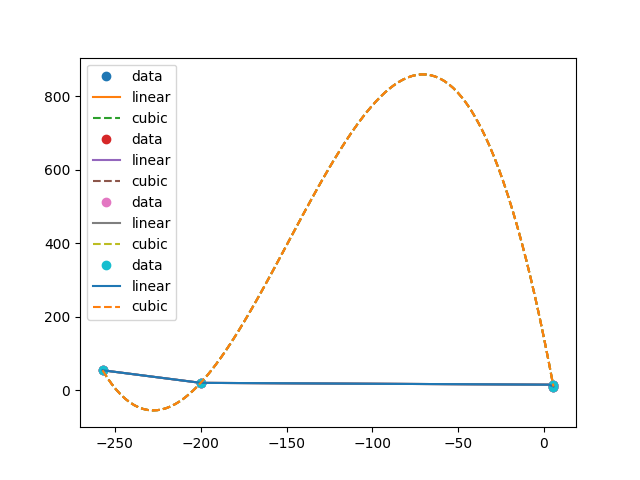
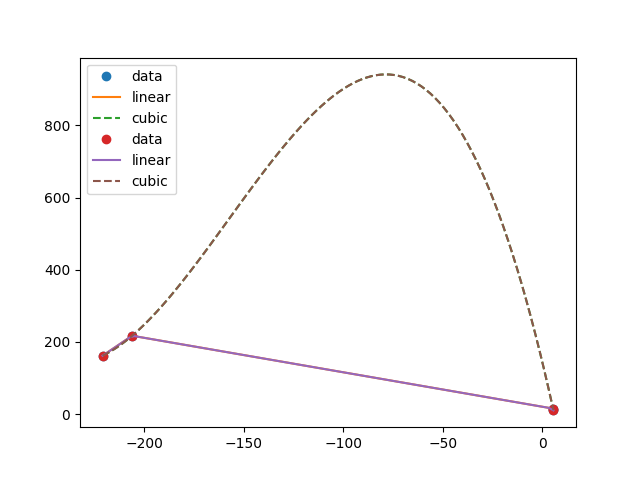
modularizing code

diff --git a/blackbox_svl/SVLSimulation.py b/blackbox_svl/SVLSimulation.py
@@ -18,16 +18,10 @@ class SVLSimulation:
         self.env = Env()
         self.sim = lgsvl.Simulator(self.env.str("LGSVL__SIMULATOR_HOST", lgsvl.wise.SimulatorSettings.simulator_host), self.env.int("LGSVL__SIMULATOR_PORT", lgsvl.wise.SimulatorSettings.simulator_port))
         self.map_id = map_id
+        self.ego = None
+        self.dummy_ego = None
 
-    def run_test(self, ego_init_speed_m_s=5.0, ego_x_pos=5.0, pedestrian_speed=3.0, steptime=None, InpSignal = None, Inpsignal_Rightward = None, sim_duration=5, for_matlab=False):
-        
-        # if sim.current_scene == lgsvl.wise.DefaultAssets.map_borregasave:
-        # if sim.current_scene == "5d272540-f689-4355-83c7-03bf11b6865f":    
-        #     sim.reset()
-        # else:
-        #     #sim.load(lgsvl.wise.DefaultAssets.map_borregasave, 42)
-        #     sim.load("5d272540-f689-4355-83c7-03bf11b6865f", 42)
-        
+    def reload_map(self):
         if self.map_id is not None:
             if self.sim.current_scene == self.map_id:    
                 self.sim.reset()
@@ -39,6 +33,31 @@ class SVLSimulation:
             else:
                 self.sim.load(lgsvl.wise.DefaultAssets.map_borregasave, 42)
 
+    def connect_to_apollo(self, ego):
+        BRIDGE_HOST = "10.218.101.181"
+        BRIDGE_PORT = 9090
+        # Dreamview setup
+        dv = lgsvl.dreamview.Connection(self.sim, ego, BRIDGE_HOST)
+        dv.set_hd_map('San Francisco')
+        dv.set_vehicle('Lincoln2017MKZ LGSVL')
+        modules = [
+            'Localization',
+            'Transform',
+            'Routing',
+            'Prediction',
+            'Planning',
+            'Control'
+        ]
+        spawns = self.sim.get_spawn()
+        destination = spawns[0].destinations[1]
+        
+        dv.enable_apollo(destination.position.x, destination.position.z, modules)
+
+
+        # connect ego vehicle with our apollo bridge
+        ego.connect_bridge(BRIDGE_HOST, BRIDGE_PORT)
+
+    def initialize_ego(self, ego_x_pos, ego_init_speed_m_s):
         spawns = self.sim.get_spawn()
         state = lgsvl.AgentState()
         state.transform = spawns[0]
@@ -53,29 +72,10 @@ class SVLSimulation:
         state.velocity = ego_init_speed_m_s * forward
 
         ego = self.sim.add_agent("2e9095fa-c9b9-4f3f-8d7d-65fa2bb03921", lgsvl.AgentType.EGO, state)
-        
-        BRIDGE_HOST = "10.218.101.181"
-        # Dreamview setup
-        dv = lgsvl.dreamview.Connection(self.sim, ego, BRIDGE_HOST)
-        dv.set_hd_map('San Francisco')
-        dv.set_vehicle('Lincoln2017MKZ LGSVL')
-        modules = [
-            'Localization',
-            'Transform',
-            'Routing',
-            'Prediction',
-            'Planning',
-            'Control'
-        ]
-        destination = spawns[0].destinations[1]
-        
-        dv.enable_apollo(destination.position.x, destination.position.z, modules)
+        self.ego = ego
 
-
-        # connect ego vehicle with our apollo bridge
-        BRIDGE_HOST = "10.218.101.181"
-        BRIDGE_PORT = 9090
-        ego.connect_bridge(BRIDGE_HOST, BRIDGE_PORT)
+        self.connect_to_apollo(self.ego)
+        
         # change the state so that dummy ego is behind the ego
         spawns = self.sim.get_spawn()
         dummy_state = lgsvl.AgentState()
@@ -84,14 +84,36 @@ class SVLSimulation:
         dummy_state.transform.position += 5*right
         # spawn a dummy ego to collect the trace of the ego vehicle. 
         dummy_ego = self.sim.add_agent("34c713df-2fd3-43f7-8756-9576735013f1", lgsvl.AgentType.EGO, dummy_state)
-    
+        self.dummy_ego = dummy_ego
 
         # connect dummy ego vehicle with our logging bridge
         # dummy host and dummy port are used to connect to the simulator
         BRIDGE_HOST_LOG = os.environ.get("LGSVL__AUTOPILOT_0_HOST", "LOG")
         BRIDGE_PORT_LOG = int(os.environ.get("LGSVL__AUTOPILOT_0_PORT", 9090))
-        dummy_ego.connect_bridge(BRIDGE_HOST_LOG,BRIDGE_PORT_LOG)
+        self.dummy_ego.connect_bridge(BRIDGE_HOST_LOG,BRIDGE_PORT_LOG)
 
+    def collect_trace(self):
+        BRIDGE_HOST = os.environ.get("LGSVL__AUTOPILOT_0_HOST", "DISCONNECT")
+        BRIDGE_PORT = int(os.environ.get("LGSVL__AUTOPILOT_0_PORT", 9090))
+        self.dummy_ego.connect_bridge(BRIDGE_HOST,BRIDGE_PORT)
+        # windows log file path
+        # final_data = deserialize_log_file("C:\\Users\\dheer\\AppData\\LocalLow\\LGElectronics\\SVLSimulator\\simulation_log.json.gz")
+        # linux log file path
+        final_data = deserialize_log_file("/home/local/ASUAD/vakula1/.config/unity3d/LGElectronics/SVLSimulator/simulation_log.json.gz")
+        return final_data
+
+    def run_test(self, ego_init_speed_m_s=5.0, ego_x_pos=5.0, pedestrian_speed=3.0, steptime=None, InpSignal = None, Points = None, sim_duration=5, for_matlab=False):
+        
+        # if sim.current_scene == lgsvl.wise.DefaultAssets.map_borregasave:
+        # if sim.current_scene == "5d272540-f689-4355-83c7-03bf11b6865f":    
+        #     sim.reset()
+        # else:
+        #     #sim.load(lgsvl.wise.DefaultAssets.map_borregasave, 42)
+        #     sim.load("5d272540-f689-4355-83c7-03bf11b6865f", 42)
+        
+        self.reload_map()
+
+        self.initialize_ego(ego_x_pos, ego_init_speed_m_s)
         #The bounding box of an agent are 2 points (min and max) such that the box formed from those 2 points completely encases the agent
         #print("Vehicle bounding box =", ego.bounding_box)
 
@@ -105,8 +127,13 @@ class SVLSimulation:
 
         # get the npc behavior by reading the InpSignal from STALIRO
         #npc_InpSignal_follow("falsification.json", state, sim, steptime, Inpsignal)
+        state = lgsvl.AgentState()
         behavior  = Behaviors("falsification.json", state, self.sim, steptime)
-        behavior.FollowInpSignal(InpSignal)
+        if(InpSignal is not None):
+            behavior.FollowInpSignal(InpSignal)
+        elif(Points is not None):
+            behavior.FollowPoints(Points)
+        #behavior.FollowInpSignal(InpSignal)
         #points = np.array([[-200, 20], [5.4, 15], [5.6, 10]])
         #behavior.FollowPoints(points)
 
@@ -115,13 +142,9 @@ class SVLSimulation:
         self.sim.run(time_limit=sim_duration)
         
         self.sim.stop()
-        BRIDGE_HOST = os.environ.get("LGSVL__AUTOPILOT_0_HOST", "DISCONNECT")
-        BRIDGE_PORT = int(os.environ.get("LGSVL__AUTOPILOT_0_PORT", 9090))
-        dummy_ego.connect_bridge(BRIDGE_HOST,BRIDGE_PORT)
-        # windows log file path
-        # final_data = deserialize_log_file("C:\\Users\\dheer\\AppData\\LocalLow\\LGElectronics\\SVLSimulator\\simulation_log.json.gz")
-        # linux log file path
-        final_data = deserialize_log_file("/home/local/ASUAD/vakula1/.config/unity3d/LGElectronics/SVLSimulator/simulation_log.json.gz")
+
+        final_data = self.collect_trace()
+     
         # print("Current ending time = ", sim.current_time)
         # print("Current ending frame = ", sim.current_frame)
         return final_data

diff --git a/examples/psytaliro-svl.py b/examples/psytaliro-svl.py
@@ -33,7 +33,10 @@ def svl_model(static: StaticInput, times: SignalTimes, signals: SignalValues) ->
     #signal = [forward, rightward]
     signal = [forward]
 
-    result = svl_sim.run_test(ego_init_speed_m_s, ego_x_pos, pedestrian_speed=0, steptime=times, InpSignal=signal, sim_duration=15, for_matlab=False)
+    #result = svl_sim.run_test(ego_init_speed_m_s, ego_x_pos, pedestrian_speed=0, steptime=times, InpSignal=signal, sim_duration=15, for_matlab=False)
+    points = np.array([[-200, 20], [5.4, 15], [5.6, 10]])
+    points = np.array([[-206, 217], [5.4, 15], [5.6, 10]])
+    result = svl_sim.run_test(ego_init_speed_m_s, ego_x_pos, pedestrian_speed=0, steptime=times, Points = points, InpSignal=None, sim_duration=15, for_matlab=False)
 
     #result = run_test(ego_init_speed_m_s, ego_x_pos, pedestrian_speed, steptime=times, Inpsignal_Forward = forward, Inpsignal_Rightward = rightward, sim_duration=10, for_matlab=False)
     #result = [[0.0, -4.998257, 3.815833, 0.9999994, 10.0147066, 43.00901, 155.4264, 0.323286742, 100.0001, 0.0, 0.0], [0.09999990463256836, -4.982434, 4.809959, 0.9999802, 9.868695, 39.3453026, 150.689972, 0.323287636, 1.70551479, 0.0, 0.0], [0.19999980926513672, -4.967915, 5.78444672, 0.9999616, 9.648887, 39.2508049, 150.567749, 0.323288351, 1.70337427, 0.0, 0.0], [0.2999997138977051, -4.95423365, 6.737262, 0.9999609, 9.43425, 39.1563225, 150.445541, 0.323288649, 1.70123374, 0.0, 0.0], [0.39999961853027344, -4.94004154, 7.669006, 0.9999631, 9.225157, 39.0619545, 150.3236, 0.32328862, 1.69788623, 0.0, 0.0], [0.4999995231628418, -4.92532, 8.579951, 0.9999624, 9.017039, 38.96768, 150.201843, 0.323288441, 0.1141549, 0.0, 0.0], [0.5999994277954102, -4.910553, 9.469978, 0.999960542, 8.806789, 38.8639259, 150.0677, 0.323288172, 1.69574571, 0.0, 0.0], [0.6999993324279785, -4.89621973, 10.3387918, 0.9999596, 8.593539, 38.7699928, 149.946259, 0.323287845, 1.69267154, 0.0, 0.0], [0.7999992370605469, -4.88225031, 11.1827526, 0.99995923, 8.319785, 38.6762161, 149.825043, 0.323287517, 1.69146466, 0.0, 0.0], [0.8999991416931152, -4.868645, 12.0019789, 0.999959, 8.09741, 38.58259, 149.703949, 0.323287219, 1.68811715, 0.0, 0.0]]
@@ -41,10 +44,10 @@ def svl_model(static: StaticInput, times: SignalTimes, signals: SignalValues) ->
 
     # get the column for agent_x at index 5 and subtract ego_x at index 1
     Xdiff = result[:,5] - result[:,1]
-    print(Xdiff)
+    #print(Xdiff)
     # get the column for agent_y at index 6 and subtract ego_y at index 2
     Ydiff = result[:,6] - result[:,2]
-    print(Ydiff)
+    #print(Ydiff)
     # stack these two columns together
     traj = np.column_stack((Xdiff, Ydiff))
     
@@ -87,7 +90,7 @@ initial_conditions = [
 ]
 
 signals = [
-    SignalOptions((0, 10), factory=PiecewiseLinear, control_points=3),
+    SignalOptions((0, 100), factory=PiecewiseLinear, control_points=3),
     #SignalOptions((0, 100), factory=PiecewiseLinear, control_points=3),
 ]
 

diff --git a/blackbox_svl/Behaviors.py b/blackbox_svl/Behaviors.py
@@ -18,11 +18,11 @@ class Behaviors:
 
     def FollowInpSignal(self, InpSignal):
         if(len(InpSignal) == 1):
-            self.FollowForward(InpSignal[0])
+            self.FollowSignal(InpSignal[0])
         else:
-            self.FollowForwardRightward(InpSignal[0], InpSignal[1])
+            self.FollowSignal2D(InpSignal[0], InpSignal[1])
 
-    def FollowForwardRightward(self, InpSignal_Forward, InpSignal_Rightward):
+    def FollowSignal2D(self, InpSignal_Forward, InpSignal_Rightward):
         npc_state = copy.deepcopy(self.state)
         npc = None
         waypoints = []
@@ -89,7 +89,7 @@ class Behaviors:
 
         npc.follow(waypoints)
 
-    def FollowForward(self, InpSignal):
+    def FollowSignal(self, InpSignal):
         npc_state = copy.deepcopy(self.state)
         npc = None
         waypoints = []
@@ -133,9 +133,6 @@ class Behaviors:
                     npc_state.transform.rotation = angle
                     npc_type = agent['variant']
                     npc = self.sim.add_agent(agent['variant'], lgsvl.AgentType.NPC, npc_state)
-
-
-        
 
         # get the initial position of the NPC and add it to points
         pos_x = npc.state.transform.position.x

diff --git a/svl_sim.py b/svl_sim.py
@@ -41,10 +41,10 @@ def svl_model(static: StaticInput, times: SignalTimes, signals: SignalValues) ->
 
     # get the column for agent_x at index 5 and subtract ego_x at index 1
     Xdiff = result[:,5] - result[:,1]
-    print(Xdiff)
+    #print(Xdiff)
     # get the column for agent_y at index 6 and subtract ego_y at index 2
     Ydiff = result[:,6] - result[:,2]
-    print(Ydiff)
+    #print(Ydiff)
     # stack these two columns together
     traj = np.column_stack((Xdiff, Ydiff))
     
